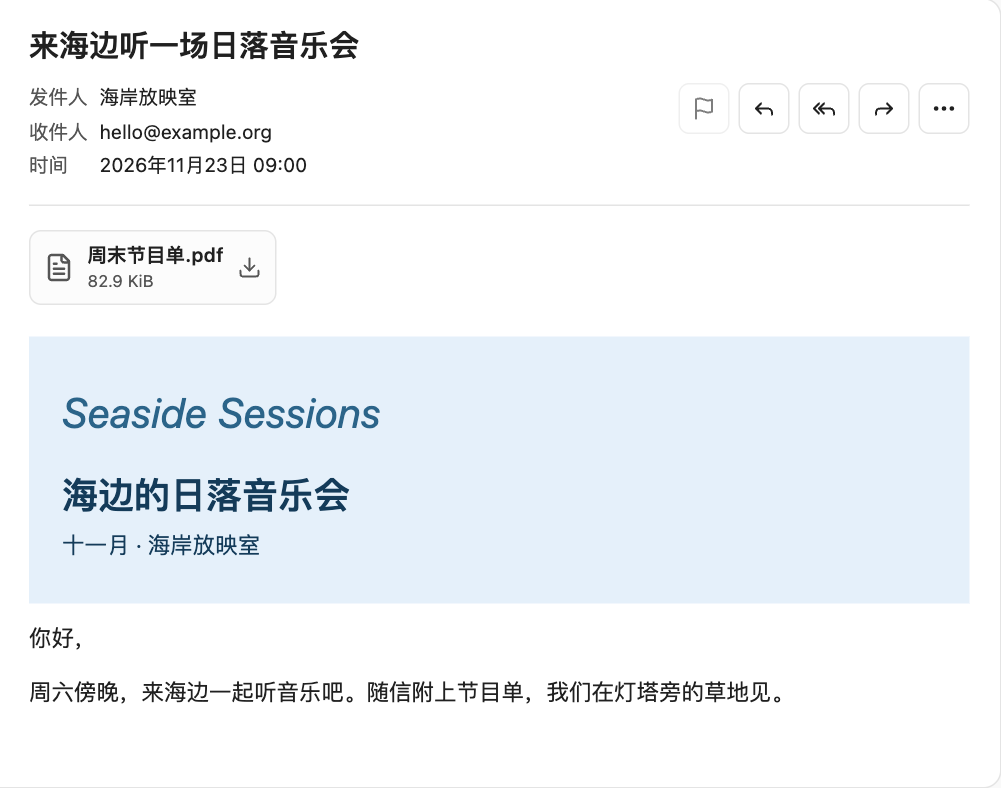
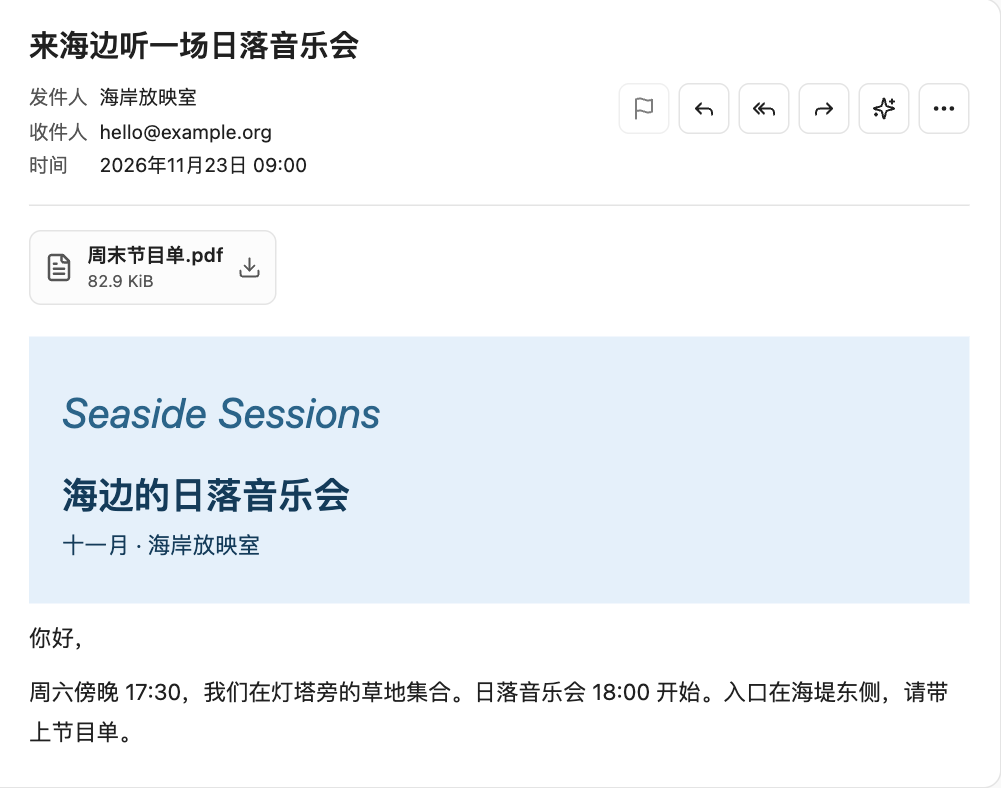
feat(pages): feature local AI with four real examples

diff --git a/docs/index.html b/docs/index.html
@@ -3,10 +3,10 @@
   <head>
     <meta charset="utf-8">
     <meta name="viewport" content="width=device-width, initial-scale=1">
-    <meta name="description" content="LoFold 是一款开源本地邮件客户端。集中收发多账号邮件，在 Mac 上离线搜索、阅读和导出原件。">
+    <meta name="description" content="LoFold 是一款开源本地邮件客户端。用本机 AI 查找邮件、核对原信、提炼摘要、翻译和拟回复。支持多邮箱收发与离线归档。">
     <meta name="color-scheme" content="dark">
     <meta name="theme-color" content="#151916">
-    <title>LoFold · 开源本地邮件客户端</title>
+    <title>LoFold · 支持本机 AI 的开源邮件客户端</title>
     <link rel="canonical" href="https://trsoliu.github.io/lofold/">
     <link rel="icon" href="lofold.png" type="image/png">
     <link rel="stylesheet" href="lofold.css">
@@ -17,6 +17,7 @@
       <div class="frame nav-row">
         <a class="wordmark" href="./"><img src="lofold.png" alt="" width="32" height="32">LoFold</a>
         <nav aria-label="站点导航">
+          <a href="#ai">本机 AI</a>
           <a href="#features">功能图解</a>
           <a href="#build">本机运行</a>
           <a href="#contact">联系</a>
@@ -28,11 +29,11 @@
       <section class="hero" aria-labelledby="headline">
         <div class="frame intro">
           <p class="product-type">开源本地邮件客户端</p>
-          <h1 id="headline">把所有邮箱，<span>收进 <em>Mac</em>。</span></h1>
-          <p class="lead">在一个收件箱读来信。即使断网，也能找回存过的邮件和附件。</p>
+          <h1 id="headline">找邮件，<span>问本机 AI。</span></h1>
+          <p class="lead">把多个邮箱收进一个客户端。用自己的话查信，点开原信核对，再把回复写成草稿。</p>
           <div class="actions">
-            <a class="button" href="#build">在 Mac 上运行 <svg aria-hidden="true" width="18" height="18" viewBox="0 0 24 24" fill="none" stroke="currentColor" stroke-width="1.6" stroke-linecap="round" stroke-linejoin="round"><path d="M4 12h15m-6-6 6 6-6 6"/></svg></a>
-            <a class="text-link" href="https://github.com/trsoliu/lofold">查看源码 <span aria-hidden="true">↗</span></a>
+            <a class="button" href="#build">从源码运行 <svg aria-hidden="true" width="18" height="18" viewBox="0 0 24 24" fill="none" stroke="currentColor" stroke-width="1.6" stroke-linecap="round" stroke-linejoin="round"><path d="M4 12h15m-6-6 6 6-6 6"/></svg></a>
+            <a class="text-link" href="#ai">看 AI 实例 <span aria-hidden="true">↓</span></a>
           </div>
         </div>
         <figure class="stage">
@@ -45,6 +46,53 @@
           </a>
           <figcaption><svg aria-hidden="true" width="18" height="18" viewBox="0 0 24 24" fill="none" stroke="currentColor" stroke-width="1.6" stroke-linecap="round" stroke-linejoin="round"><path d="M9 3H3v6m12-6h6v6M3 15v6h6m12-6v6h-6"/></svg> 客户端实景 · 点击查看完整三栏</figcaption>
         </figure>
+      </section>
+      <section class="ai-focus frame" id="ai" aria-labelledby="ai-heading">
+        <header class="ai-intro">
+          <div>
+            <h2 id="ai-heading">本机 AI 能帮你做什么？</h2>
+            <p>用一封音乐会邀请，看看 LoFold 在同一台电脑上用 Ollama 和 Qwen2.5 3B 实际生成的结果。</p>
+          </div>
+          <a class="text-link" href="https://github.com/trsoliu/lofold/blob/main/docs/15-%E6%9C%AC%E6%9C%BAAI.md">启用本机模型 <span aria-hidden="true">↗</span></a>
+        </header>
+        <div class="ai-tabs" role="tablist" aria-label="查看本机 AI 实例" hidden>
+          <button type="button" role="tab" id="tab-search" aria-controls="example-search" aria-selected="true" tabindex="0">查信</button>
+          <button type="button" role="tab" id="tab-summary" aria-controls="example-summary" aria-selected="false" tabindex="-1">摘要</button>
+          <button type="button" role="tab" id="tab-translate" aria-controls="example-translate" aria-selected="false" tabindex="-1">翻译</button>
+          <button type="button" role="tab" id="tab-draft" aria-controls="example-draft" aria-selected="false" tabindex="-1">拟回复</button>
+        </div>
+        <div class="ai-example" id="example-search">
+          <figure>
+            <figcaption><h3>日落音乐会几点集合？</h3><p>在「AI 查信」里选择邮箱或整个归档，用平常说话的方式提问。示例里，模型找到了周六 17:30 的集合时间，也列出了可以点开核对的邀请邮件。</p></figcaption>
+            <a class="shot-image" data-preview href="screenshots/ai-search.webp" title="放大查看查信示例" aria-label="放大查看查信示例">
+              <img src="screenshots/ai-search.webp" width="1622" height="1050" loading="lazy" decoding="async" alt="模型回答周六 17:30 在灯塔旁集合，下方列出音乐会邀请原信。">
+            </a>
+          </figure>
+        </div>
+        <div class="ai-example" id="example-summary">
+          <figure>
+            <figcaption><h3>把一封邀请读成几条要点</h3><p>打开邮件操作栏的「本机 AI」，选择「摘要」。这封邀请里的集合时间、演出时间、入口和要带的节目单都能和原文对照。</p></figcaption>
+            <a class="shot-image" data-preview href="screenshots/ai-summary.webp" title="放大查看摘要示例" aria-label="放大查看摘要示例">
+              <img src="screenshots/ai-summary.webp" width="1280" height="1304" loading="lazy" decoding="async" alt="邮件摘要按主题、关键事实和待办列出示例邀请的内容。">
+            </a>
+          </figure>
+        </div>
+        <div class="ai-example" id="example-translate">
+          <figure>
+            <figcaption><h3>在原信旁读懂另一种语言</h3><p>在「翻译」里选择简体中文、英语、日语或韩语。这里选了英语，译文保留了集合地点和两个不同的时间。</p></figcaption>
+            <a class="shot-image" data-preview href="screenshots/ai-translate.webp" title="放大查看翻译示例" aria-label="放大查看翻译示例">
+              <img src="screenshots/ai-translate.webp" width="1280" height="1068" loading="lazy" decoding="async" alt="翻译窗口选中英语，显示音乐会邀请的英文译文和时间。">
+            </a>
+          </figure>
+        </div>
+        <div class="ai-example" id="example-draft">
+          <figure>
+            <figcaption><h3>让 AI 起草，自己决定怎么回</h3><p>写下你想表达的意思，先预览生成的文字，再点「用作回复草稿」。你可以在写信窗口修改、添加附件并确认发送。</p></figcaption>
+            <a class="shot-image" data-preview href="screenshots/ai-draft.webp" title="放大查看拟回复示例" aria-label="放大查看拟回复示例">
+              <img src="screenshots/ai-draft.webp" width="1280" height="964" loading="lazy" decoding="async" alt="根据准时赴约、感谢邀请的要求生成了一句回复，底部可将它用作草稿。">
+            </a>
+          </figure>
+        </div>
       </section>
       <section id="features" class="guide frame" aria-labelledby="features-heading">
         <header class="guide-header">
@@ -139,7 +187,7 @@
       <section id="build" class="build frame" aria-labelledby="build-heading">
         <div>
           <h2 id="build-heading">从源码运行</h2>
-          <p>当前为 Apple 芯片 Mac 开发版。需要 Xcode、Node.js 22.12 或以上版本、pnpm 11 和 rustup。</p>
+          <p>在 Mac 上从源码运行，需要 Xcode、Node.js 22.12 或以上版本、pnpm 11 和 rustup。</p>
           <a href="https://github.com/trsoliu/lofold#本机运行">构建与检查说明 <span aria-hidden="true">↗</span></a>
         </div>
         <pre><code>git clone https://github.com/trsoliu/lofold.git

diff --git a/docs/lofold.css b/docs/lofold.css
@@ -141,3 +141,39 @@ body:has(.viewer[open]) { overflow: hidden; }
   .nav-row { gap: 5px; }
   .site-header nav { gap: 4px; }
 }
+
+.downloads { padding-top: clamp(36px, 5vw, 72px); }
+.downloads header { display: flex; flex-wrap: wrap; align-items: center; justify-content: space-between; gap: 8px 18px; }
+.downloads h2 { font-size: clamp(1.65rem, 2.7vw, 2.4rem); letter-spacing: -.055em; line-height: 1.25; }
+.downloads header a, .download-file { display: inline-flex; min-height: 44px; align-items: center; gap: .4em; color: var(--accent); }
+.downloads a:hover { text-decoration: underline; text-underline-offset: .3em; }
+.platforms { list-style: none; margin: 15px 0 0; padding: 0; border-block-end: 1px solid var(--line); }
+.platforms li { display: grid; grid-template-columns: minmax(130px, .7fr) minmax(0, 2fr) auto; align-items: center; gap: 4px 26px; padding: 14px 0; border-top: 1px solid var(--line); }
+.platforms h3 { font-size: 1.1rem; }
+.platforms p, .platforms small, .download-state { color: var(--muted); }
+.download-state { min-width: 8em; text-align: right; font-size: .9rem; }
+@media (max-width: 740px) {
+  .platforms li { grid-template-columns: minmax(0, 1fr) auto; }
+  .platforms p { grid-column: 1 / -1; grid-row: 2; font-size: .94rem; }
+  .download-state { grid-column: 2; grid-row: 1; min-width: 0; }
+}
+
+.ai-focus { margin-top: clamp(42px, 7vw, 100px); }
+.ai-intro { display: flex; flex-wrap: wrap; justify-content: space-between; align-items: end; gap: 8px 24px; }
+.ai-intro h2 { font-size: clamp(2rem, 4.1vw, 3.45rem); line-height: 1.14; letter-spacing: -.055em; }
+.ai-intro p { margin-top: 12px; color: var(--muted); }
+.ai-tabs { display: flex; flex-wrap: wrap; gap: 5px; margin-top: 20px; border-bottom: 1px solid var(--line); }
+.ai-tabs[hidden], .ai-example[hidden] { display: none; }
+.ai-tabs button { min-height: 44px; padding: 0 15px; color: var(--muted); background: none; border: 0; border-bottom: 2px solid transparent; }
+.ai-tabs button[aria-selected="true"] { color: var(--accent); border-color: var(--accent); }
+.ai-example figure { display: grid; grid-template-columns: minmax(0, .72fr) minmax(0, 1.45fr); gap: clamp(20px, 5vw, 68px); align-items: center; padding-block: 23px; }
+.ai-example h3 { max-width: 13em; font-size: clamp(1.45rem, 2.5vw, 2.4rem); line-height: 1.3; letter-spacing: -.04em; }
+.ai-example figcaption p { margin-top: 12px; color: var(--muted); line-height: 1.85; }
+.ai-example .shot-image { aspect-ratio: auto; height: clamp(295px, 34vw, 414px); padding: clamp(10px, 1.6vw, 22px); background: #283426; }
+@media (max-width: 740px) {
+  .ai-example figure { grid-template-columns: minmax(0, 1fr); gap: 14px; }
+  .ai-example .shot-image { height: auto; min-height: 190px; max-height: 375px; }
+  .ai-example .shot-image img { max-height: 345px; }
+  .ai-example figcaption p { margin-top: 5px; }
+}
+@media (max-width: 440px) { .site-header nav a[href="https://github.com/trsoliu/lofold"] { display: none; } }

diff --git a/docs/lofold-gallery.js b/docs/lofold-gallery.js
@@ -20,7 +20,7 @@ if (typeof viewer.showModal === 'function') {
       picture.src = link.href
       picture.alt = link.querySelector('img').alt
       const figure = link.closest('figure')
-      viewer.querySelector('#viewer-title').textContent = figure.querySelector('h4')?.textContent ?? '三栏收件箱'
+      viewer.querySelector('#viewer-title').textContent = figure.querySelector('h3, h4')?.textContent ?? '三栏收件箱'
       setZoom(false)
       viewer.showModal()
     })
@@ -38,3 +38,36 @@ if (typeof viewer.showModal === 'function') {
     if (!viewer.open) picture.removeAttribute('src')
   })
 }
+
+const aiTabList = document.querySelector('.ai-tabs')
+const aiTabs = Array.from(aiTabList.querySelectorAll('[role="tab"]'))
+
+function showAiExample(active) {
+  for (const tab of aiTabs) {
+    const selected = tab === active
+    const panel = document.getElementById(tab.getAttribute('aria-controls'))
+    panel.setAttribute('role', 'tabpanel')
+    panel.setAttribute('aria-labelledby', tab.id)
+    panel.hidden = !selected
+    tab.setAttribute('aria-selected', String(selected))
+    tab.tabIndex = selected ? 0 : -1
+  }
+}
+
+for (const [index, tab] of aiTabs.entries()) {
+  tab.addEventListener('click', () => showAiExample(tab))
+  tab.addEventListener('keydown', event => {
+    const nextIndex = {
+      ArrowRight: (index + 1) % aiTabs.length,
+      ArrowLeft: (index + aiTabs.length - 1) % aiTabs.length,
+      Home: 0,
+      End: aiTabs.length - 1,
+    }[event.key]
+    if (nextIndex === undefined) return
+    event.preventDefault()
+    showAiExample(aiTabs[nextIndex])
+    aiTabs[nextIndex].focus()
+  })
+}
+showAiExample(aiTabs[0])
+aiTabList.hidden = false

diff --git a/docs/15-本机AI.md b/docs/15-本机AI.md
@@ -1,6 +1,6 @@
 # 本机 AI
 
-LoFold 连接同一台 Mac 上的 Ollama。已安装的 GGUF 对话模型会出现在模型列表中。模型由用户管理，LoFold 可以随邮件收发一起工作，也可以断网处理已经缓存的正文。
+在 macOS 或 Windows 桌面版，LoFold 可连接同一台电脑上运行的 Ollama。已安装的 GGUF 对话模型会出现在模型列表中。模型由用户管理，LoFold 可以随邮件收发一起工作，也可以断网处理已经缓存的正文。
 
 ## 启用
 

diff --git a/CHANGELOG.md b/CHANGELOG.md
@@ -4,6 +4,8 @@
 
 - 桌面端加入本机 AI 查信、邮件问答、摘要、翻译和拟稿。需要本机 Ollama 对话模型，问答支持打开参考原信，生成的回复可保存为可编辑草稿。
 
+- 官网首屏加入本机 AI 示例：用一封音乐会邀请展示查信与原信、摘要、翻译、拟回复，截图均可放大。
+
 ## 未发布
 
 - 官网改用深色与黄绿色，以真实客户端三栏截图和可放大的功能图解介绍 macOS 开发版。
